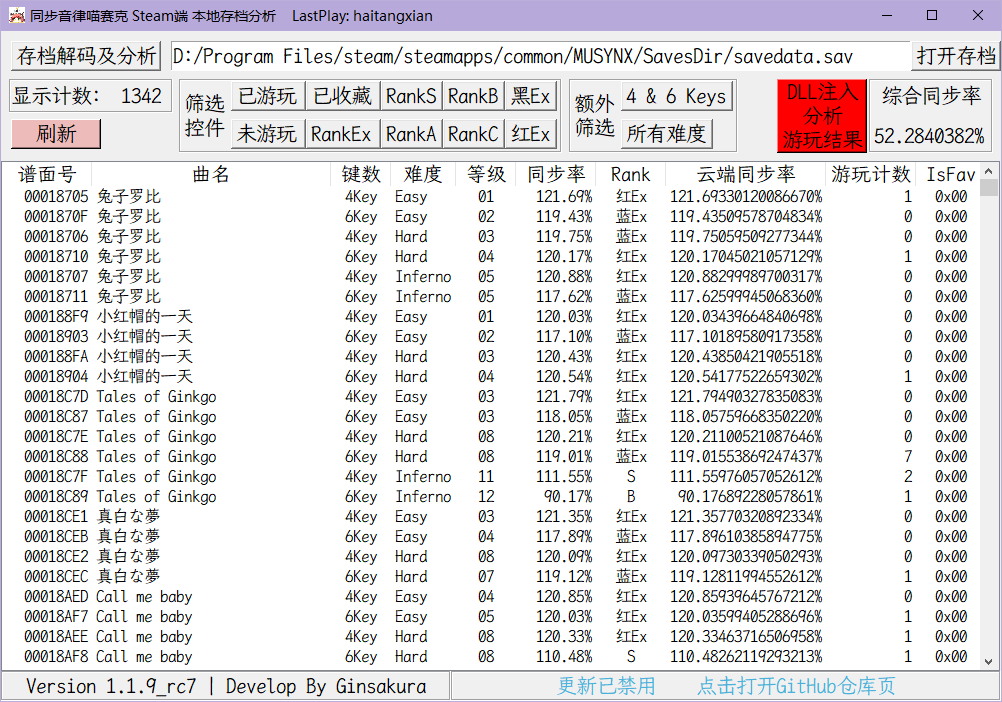
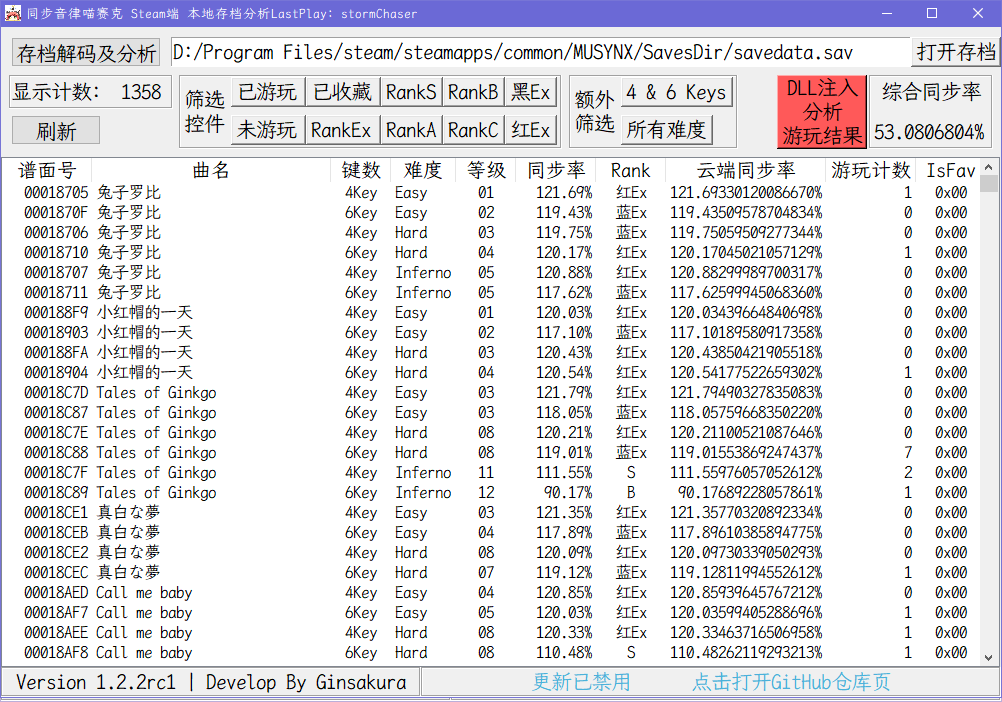
1.2.2rc1  更新 自动获取Console中的游玩成绩  Release

diff --git a/HitDelay.py b/HitDelay.py
@@ -1,5 +1,5 @@
 from tkinter import *
-from tkinter import Tk,ttk,font,Text
+from tkinter import Tk,ttk,font,Text,messagebox
 from matplotlib import pyplot as plt
 from matplotlib.pyplot import MultipleLocator
 from datetime import datetime as dt
@@ -9,6 +9,9 @@ import json
 import FileExport
 import sqlite3 as sql
 from AllHitAnalyze import HitAnalyze
+import uiautomation as uiauto
+uiauto.SetGlobalSearchTimeout(1)
+import pyperclip
 
 class HitDelayCheck(object):
 	"""docstring for HitDelayWindow"""
@@ -45,7 +48,6 @@ class HitDelayText(object):
 		if os.path.isfile('./musync_data/HitDelayHistory.db'):
 			self.db = sql.connect('./musync_data/HitDelayHistory.db')
 			self.cur = self.db.cursor()
-
 		else:
 			self.db = sql.connect('./musync_data/HitDelayHistory.db')
 			self.cur = self.db.cursor()
@@ -61,43 +63,49 @@ class HitDelayText(object):
 		self.subroot.geometry(f'1000x600+600+400')
 		self.subroot.title("高精度延迟分析")
 		self.subroot['background'] = '#efefef'
-		self.tipLabel = Label(self.subroot,font=self.font, relief="groove",text='↓将您用来辨识谱面的方式填入右侧文本框      请将控制台中的内容粘贴进右面的文本框，然后点击按钮↓')
+		self.tipLabel = Label(self.subroot,font=self.font, relief="groove",text='↓将您用来辨识谱面的方式填入右侧文本框，然后点击右侧红色按钮进行结果分析↓',fg='#F9245E')
 		self.tipLabel.place(x=0,y=0,height=40,relwidth=1)
-		self.logText = Text(self.subroot,font=self.font)
-		self.logText.place(relx=0.7,y=70,relheight=0.88,relwidth=0.3)
 
 		with open('./musync_data/ExtraFunction.cfg', 'r') as confFile:
 			config = json.load(confFile)
 
 		self.openHitAnalyze = False
 		self.hitAnalyzeButton = Button(self.subroot,text='All\nHit',command=self.OpenHitAnalyze,font=self.font, relief="groove")
-		self.hitAnalyzeButton.place(x=0,y=40,height=60,relwidth=0.05)
+		self.hitAnalyzeButton.place(x=0,y=40,height=90,relwidth=0.05)
 		self.nameDelayLabel = Label(self.subroot,font=self.font, relief="groove",text='↓请在下面输入曲名与谱面难度↓这只是用来标记你玩的哪个谱面而已，\n只要你能分辨就行，没有格式要求。如"ニニ 4KEZ"、"二重4H"等')
 		self.nameDelayLabel.place(relx=0.05,y=40,height=60,relwidth=0.65)
-		self.nameDelayEntry = Entry(self.subroot,font=self.font, relief="sunken")
-		self.nameDelayEntry.place(relx=0.01,y=100,height=30,relwidth=0.68)
+		self.nameDelayEntry = Entry(self.subroot,font=self.font, relief="sunken",validate='focus',validatecommand=self.TestEntryString)
+		self.nameDelayEntry.insert(0, "→→在这里输入铺面标识←←")
+		self.nameDelayEntry.place(relx=0.05,y=100,height=30,relwidth=0.65)
 		self.delayHistory = ttk.Treeview(self.subroot, show="headings", columns = ['name','AllKeys','AvgDelay','AvgAcc'])
-		self.delayHistory.place(x=0,y=130,relheight=0.78,relwidth=0.68)
+		self.delayHistory.place(x=0,y=130,relheight=0.78,relwidth=0.70)
 		self.VScroll1 = Scrollbar(self.subroot, orient='vertical', command=self.delayHistory.yview)
 		self.delayHistory.configure(yscrollcommand=self.VScroll1.set)
-		self.VScroll1.place(relx=0.68,y=130,relheight=0.78,relwidth=0.02)
+		self.VScroll1.place(relx=0.679,y=132,relheight=0.774,relwidth=0.02)
 		
+		self.logButton = Button(self.subroot,text='点击生成图表',command=self.Draw,font=self.font,bg='#FFCCCC')
+		self.logButton.place(relx=0.7,y=40,height=30,relwidth=0.3)
 		if config['EnableAcc-Sync']:
-			self.logButton = Button(self.subroot,text='点击生成图表',command=self.Draw,font=self.font,bg='#FFCCCC')
-			self.logButton.place(relx=0.7,y=40,height=30,relwidth=0.2)
-			self.txtButton = Button(self.subroot,text='Acc-Sync',command=self.OpenTxt,font=self.font)
-			self.txtButton.place(relx=0.9,y=40,height=30,relwidth=0.1)
-		else:
-			self.logButton = Button(self.subroot,text='点击生成图表',command=self.Draw,font=self.font,bg='#FFCCCC')
-			self.logButton.place(relx=0.7,y=40,height=30,relwidth=0.3)
+			self.txtButton = Button(self.subroot,text='生成Acc-Sync图表',command=self.OpenTxt,font=self.font)
+			self.txtButton.place(relx=0.7,y=70,height=30,relwidth=0.3)
+
+		self.delayInterval = 90
 		if config['EnableNarrowDelayInterval']:
 			self.delayInterval = 45
-		else:
-			self.delayInterval = 90
+		del config
 
 		self.history = list()
 		self.HistoryUpdate()
 		self.UpdateWindowInfo()
+
+	def TestEntryString(self):
+		string = self.nameDelayEntry.get()
+		# print(type(string),string,reason)
+		if string == '':
+			self.nameDelayEntry.insert(0, "→→在这里输入铺面标识←←")
+		elif string == '→→在这里输入铺面标识←←':
+			self.nameDelayEntry.delete(0,'end')
+		return True
 
 	def HistoryUpdate(self):
 		for ids in self.delayHistory.get_children():
@@ -107,34 +115,49 @@ class HitDelayText(object):
 		for ids in data:
 			self.history = list()
 			self.history.append(ids[0])
-			self.delayHistory.insert('', END, values=(ids[0],ids[2],'%.6f ms'%ids[1],'%.6f ms'%ids[3]))
+			self.delayHistory.insert('', END, values=(ids[0],ids[2],'%.6f ms'%ids[1],'%.6f ms   '%ids[3]))
 		del data
 
 	def Draw(self):
-		data = self.logText.get("0.0", "end").split('\n')
-		dataList=list()
-		name = self.nameDelayEntry.get()+f"-{dt.now()}"
-		if data[-1] == "":
-			data.pop(-1)
-		for ids in range(1,len(data)-1):
-			dataList.append(float(data[ids][13:-2]))
-		allKeys = len(dataList)
-		sumNums,sumKeys = 0,0
-		for ids in dataList:
-			if (ids < self.delayInterval) and (ids > -self.delayInterval):
-				sumNums += ids
-				sumKeys += 1
-		avgDelay = sumNums/sumKeys
-		avgAcc = sum([abs(i) for i in dataList])/allKeys
-		self.delayHistory.insert('', END, values=(name,allKeys,'%.6f ms'%avgDelay,'%.6f ms'%avgAcc))
-		dataListStr = ""
-		for i in dataList:
-			dataListStr += f'{i}|'
-		self.cur.execute("insert into HitDelayHistory values(?,?,?,?,?)",(name,avgDelay,allKeys,avgAcc,dataListStr[:-1]))
-		self.db.commit()
-		self.HistoryUpdate()
-		dataList = [name,avgDelay,allKeys,avgAcc,dataList]
-		HitDelayDraw(dataList,isHistory=False)
+		consoleFind = False
+		try:
+			win = uiauto.WindowControl(searchDepth=1,Name='MUSYNX Delay',searchInterval=1).DocumentControl(serchDepth=1,Name='Text Area',searchInterval=1)
+			win.SendKeys('{Ctrl}A',waitTime=0.1)
+			win.SendKeys('{Ctrl}C',waitTime=0.1)
+			consoleFind = True
+		except Exception as e:
+			try:
+				win = uiauto.WindowControl(searchDepth=1,Name='选择 MUSYNX Delay',searchInterval=1).DocumentControl(serchDepth=1,Name='Text Area',searchInterval=1)
+				win.SendKeys('{Ctrl}A',waitTime=0.1)
+				win.SendKeys('{Ctrl}C',waitTime=0.1)
+				consoleFind = True
+			except Exception as e:
+				messagebox.showerror("Error", f'控制台窗口未找到\n请确认控制台窗口已开启\n{e}')
+		if consoleFind:
+			data = pyperclip.paste().split('\n')
+			dataList=list()
+			name = self.nameDelayEntry.get()+f"-{dt.now()}"
+			if data[-1] == "":
+				data.pop(-1)
+			for ids in range(1,len(data)-1):
+				dataList.append(float(data[ids][13:-3]))
+			allKeys = len(dataList)
+			sumNums,sumKeys = 0,0
+			for ids in dataList:
+				if (ids < self.delayInterval) and (ids > -self.delayInterval):
+					sumNums += ids
+					sumKeys += 1
+			avgDelay = sumNums/sumKeys
+			avgAcc = sum([abs(i) for i in dataList])/allKeys
+			self.delayHistory.insert('', END, values=(name,allKeys,'%.6f ms'%avgDelay,'%.6f ms   '%avgAcc))
+			dataListStr = ""
+			for i in dataList:
+				dataListStr += f'{i}|'
+			self.cur.execute("insert into HitDelayHistory values(?,?,?,?,?)",(name,avgDelay,allKeys,avgAcc,dataListStr[:-1]))
+			self.db.commit()
+			self.HistoryUpdate()
+			dataList = [name,avgDelay,allKeys,avgAcc,dataList]
+			HitDelayDraw(dataList,isHistory=False)
 
 	def OpenTxt(self):
 		os.system('start notepad ./musync_data/Acc-Sync.json')
@@ -170,7 +193,7 @@ class HitDelayText(object):
 		self.delayHistory.column("name",anchor="w",width=300)
 		self.delayHistory.column("AllKeys",anchor="e",width=60)
 		self.delayHistory.column("AvgDelay",anchor="e",width=150)
-		self.delayHistory.column("AvgAcc",anchor="e",width=150)
+		self.delayHistory.column("AvgAcc",anchor="e",width=100)
 		self.delayHistory.bind("<Double-1>",self.HistoryDraw)
 
 		self.subroot.update()

diff --git a/MusyncSavDecodeGUI.py b/MusyncSavDecodeGUI.py
@@ -9,8 +9,7 @@ import threading
 from PIL import Image as PILImage
 from PIL import ImageTk
 from tkinter import *
-from tkinter import Tk,ttk,font
-from tkinter import messagebox
+from tkinter import Tk,ttk,font,messagebox
 from tkinter.filedialog import askopenfilename
 from HitDelay import HitDelayCheck,HitDelayText
 import Functions
@@ -19,7 +18,7 @@ import Functions
 #import win32gui_struct
 #import win32gui
 #from threading import Thread
-version = '1.2.1rc4'
+version = '1.2.2rc1'
 
 class MusyncSavDecodeGUI(object):
 	"""docstring for MusyncSavDecodeGUI"""
@@ -163,7 +162,7 @@ class MusyncSavDecodeGUI(object):
 			self.DeleteAnalyzeFile()
 		self.CheckFile()
 		if config['EnableDLLInjection']:
-			self.hitDelay = Button(self.root, text="DLL注入\n分析\n游玩结果",command=self.HitDelay, font=self.font,bg='#FF5555')
+			self.hitDelay = Button(self.root, text="DLL注入\n分析\n游玩结果",command=self.HitDelay, font=self.font,bg='#FF5959')
 			self.hitDelay.place(x=776,y=48,width=90,height=74)
 		if not os.path.isfile('./musync_data/SaveFilePath.sfp'):
 			self.GetSaveFile()

diff --git a/AllHitAnalyze.py b/AllHitAnalyze.py
@@ -120,7 +120,7 @@ class HitAnalyze(object):
 			for ids in range(maxLen//10,maxY+maxLen//10,maxLen//10):
 				yLine.append([ids for i in range(-150,251)])
 
-		fig = plt.figure(f"HitAnalyze (total:{self.sumYnum},  CyanEx:{self.rate[0]},  BlueEx:{self.rate[1]},  Great:{self.rate[2]},  Right:{self.rate[3]},  Miss:{self.rate[4]})", figsize=(16, 8))
+		fig = plt.figure(f"HitAnalyze (Total:{self.sumYnum},  CyanEx:{self.rate[0]},  BlueEx:{self.rate[1]},  Great:{self.rate[2]},  Right:{self.rate[3]},  Miss:{self.rate[4]})", figsize=(16, 8))
 		fig.subplots_adjust(**{"left":0.045,"bottom":0.06,"right":1,"top":1})
 		if self.isOpen: fig.clear()
 		plt.xlabel("Delay(ms)",fontproperties='LXGW WenKai Mono',fontsize=15)
